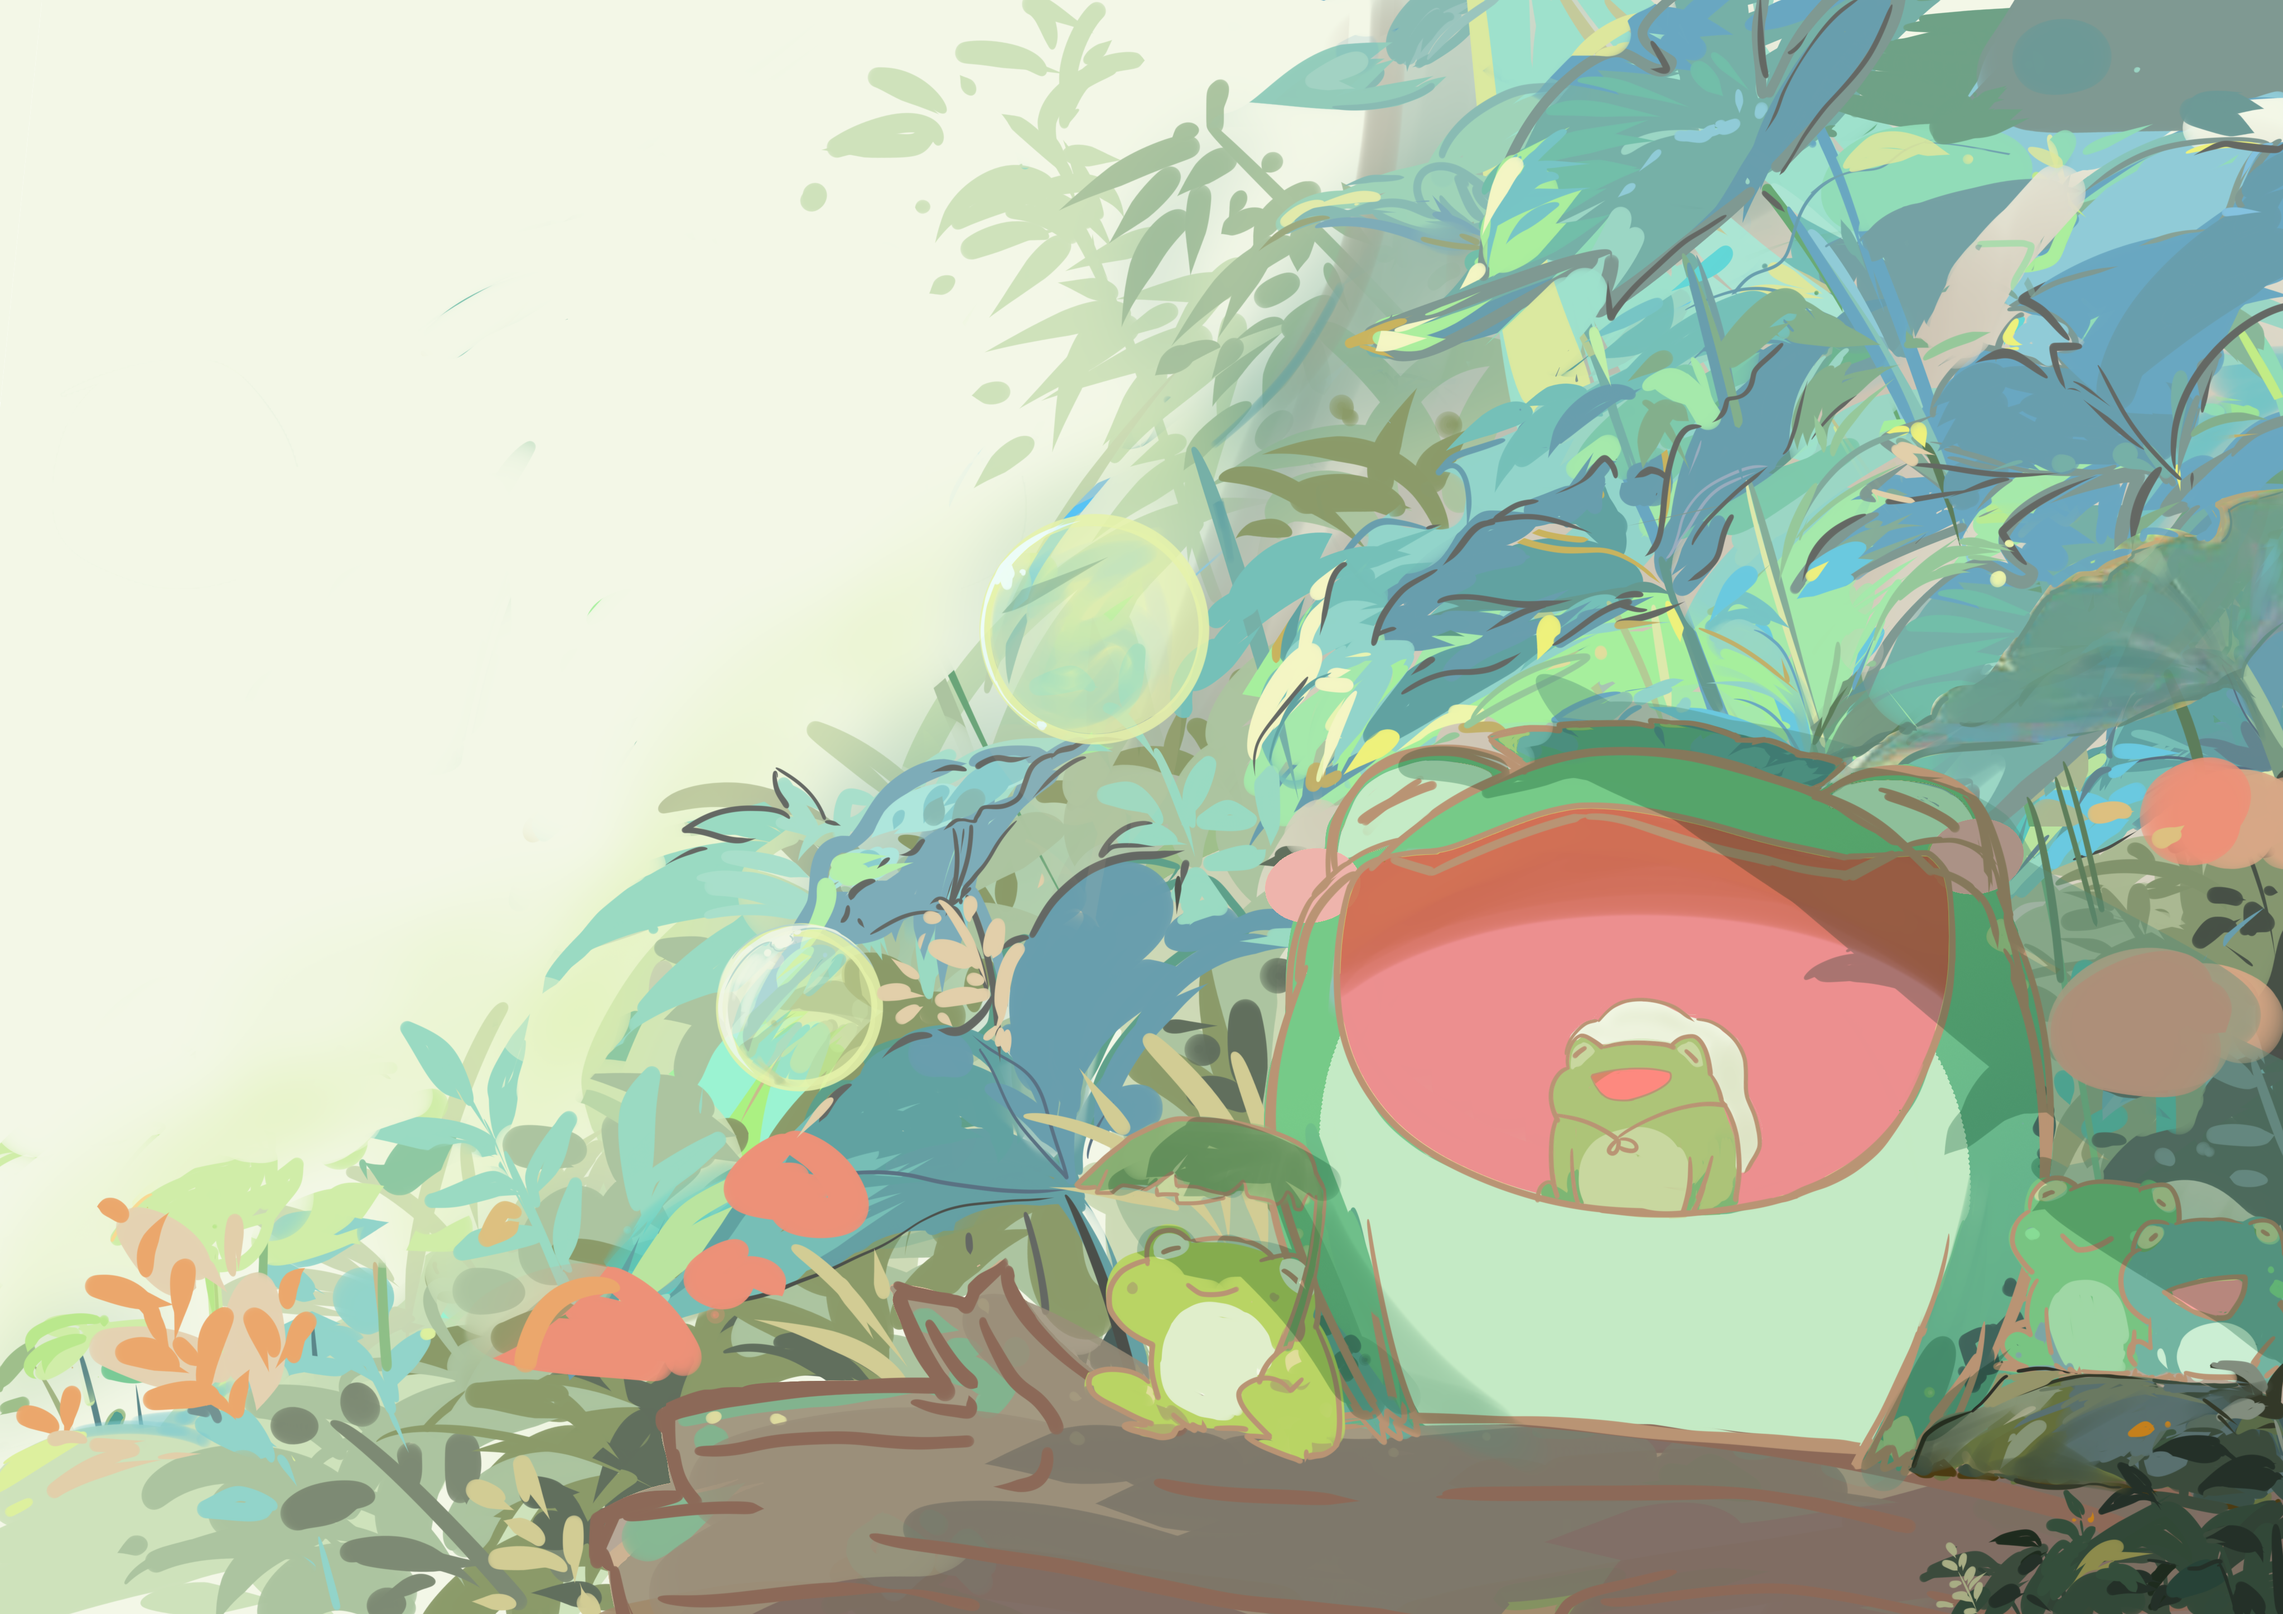
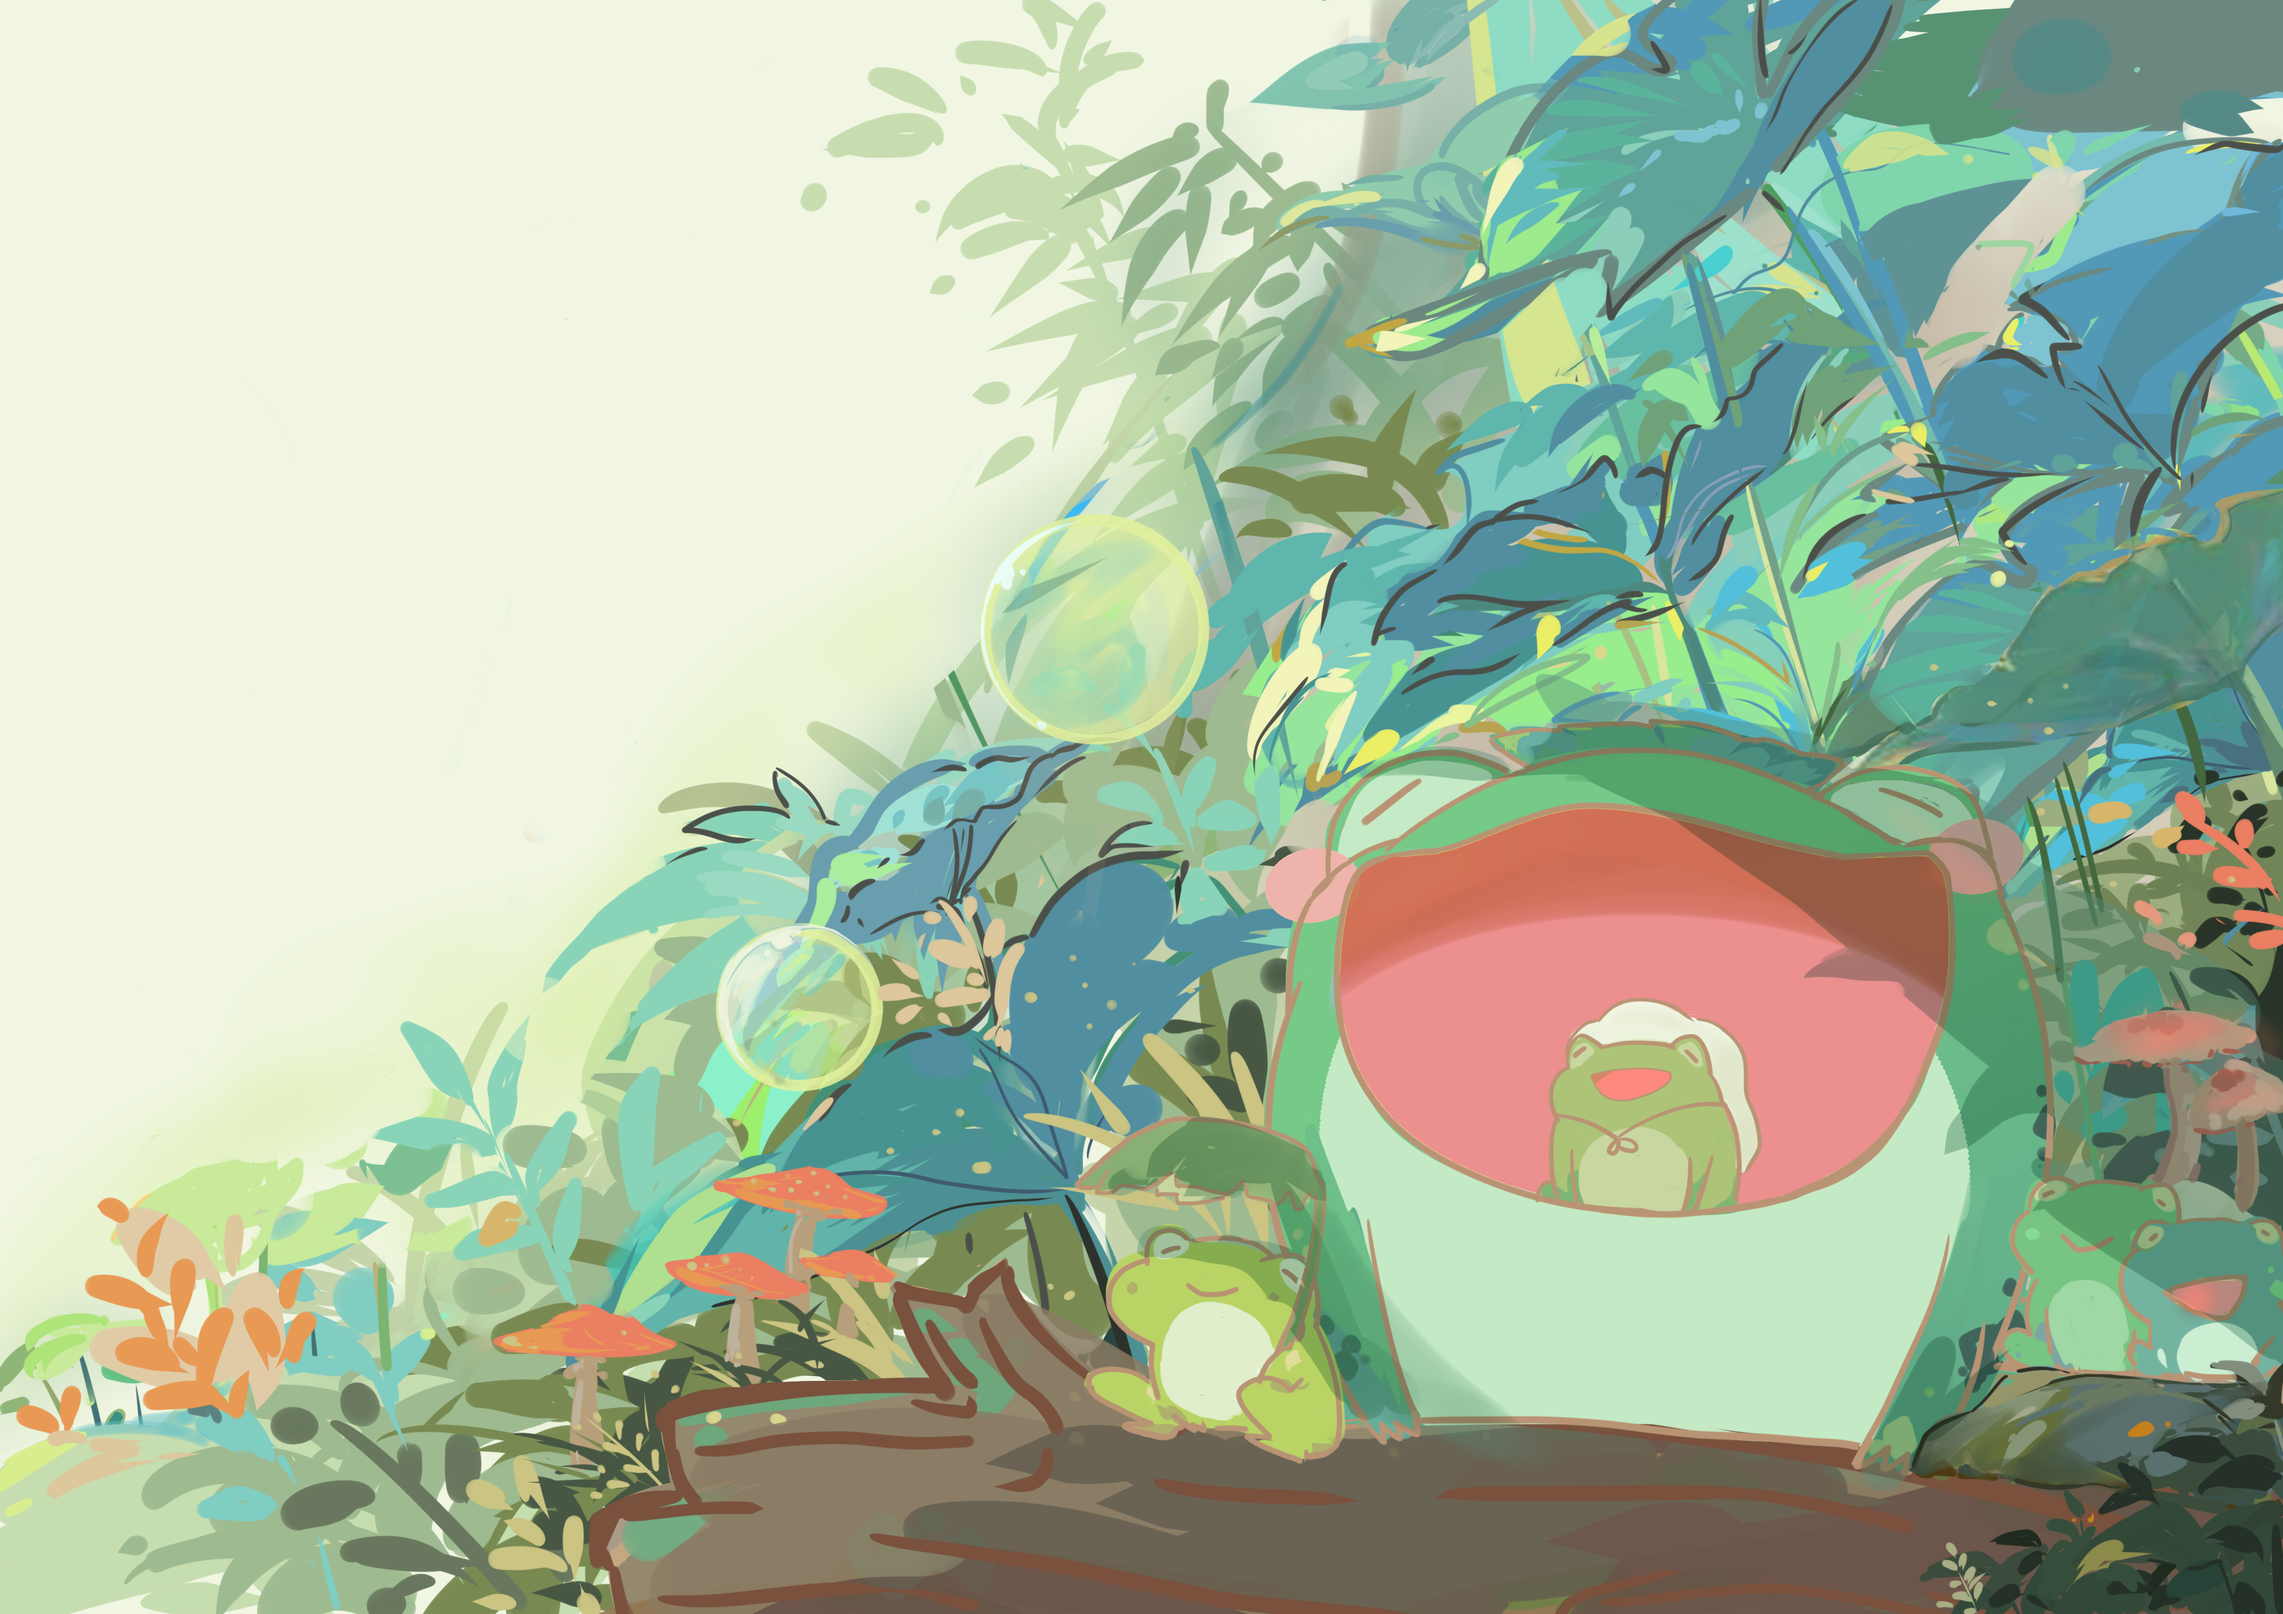
updated background home page, update responsive page size in about section for 1440 screen size

diff --git a/src/components/home/home.css b/src/components/home/home.css
@@ -123,7 +123,7 @@
 }
 
 .home:hover {
-  background-image: url("../../assets/fp-3.png");
+  background-image: url("../../assets/fp-2.png");
   background-repeat: no-repeat;
   background-size: cover;
 }
@@ -135,8 +135,25 @@
 
 /*============ BREAKPOINTS ==============*/
 /* LARGER DEVICES */
-@media screen and (max-width: 1024px) {
+@media screen and (max-width: 1440px) {
+  .about_container{
+    padding-left: 15rem;
+  }
+  .home_button {
+    grid-template-columns: 300px 360px;
+    justify-content: center;
+  }
 
+  .home_section_title {
+    font-size: 80px;
+    width: 400px;
+  }
+}
+
+@media screen and (max-width: 1024px) {
+  .about_contianer{
+    padding-left: 0;
+  }
   .home_button {
     grid-template-columns: 300px 360px;
     justify-content: center;
